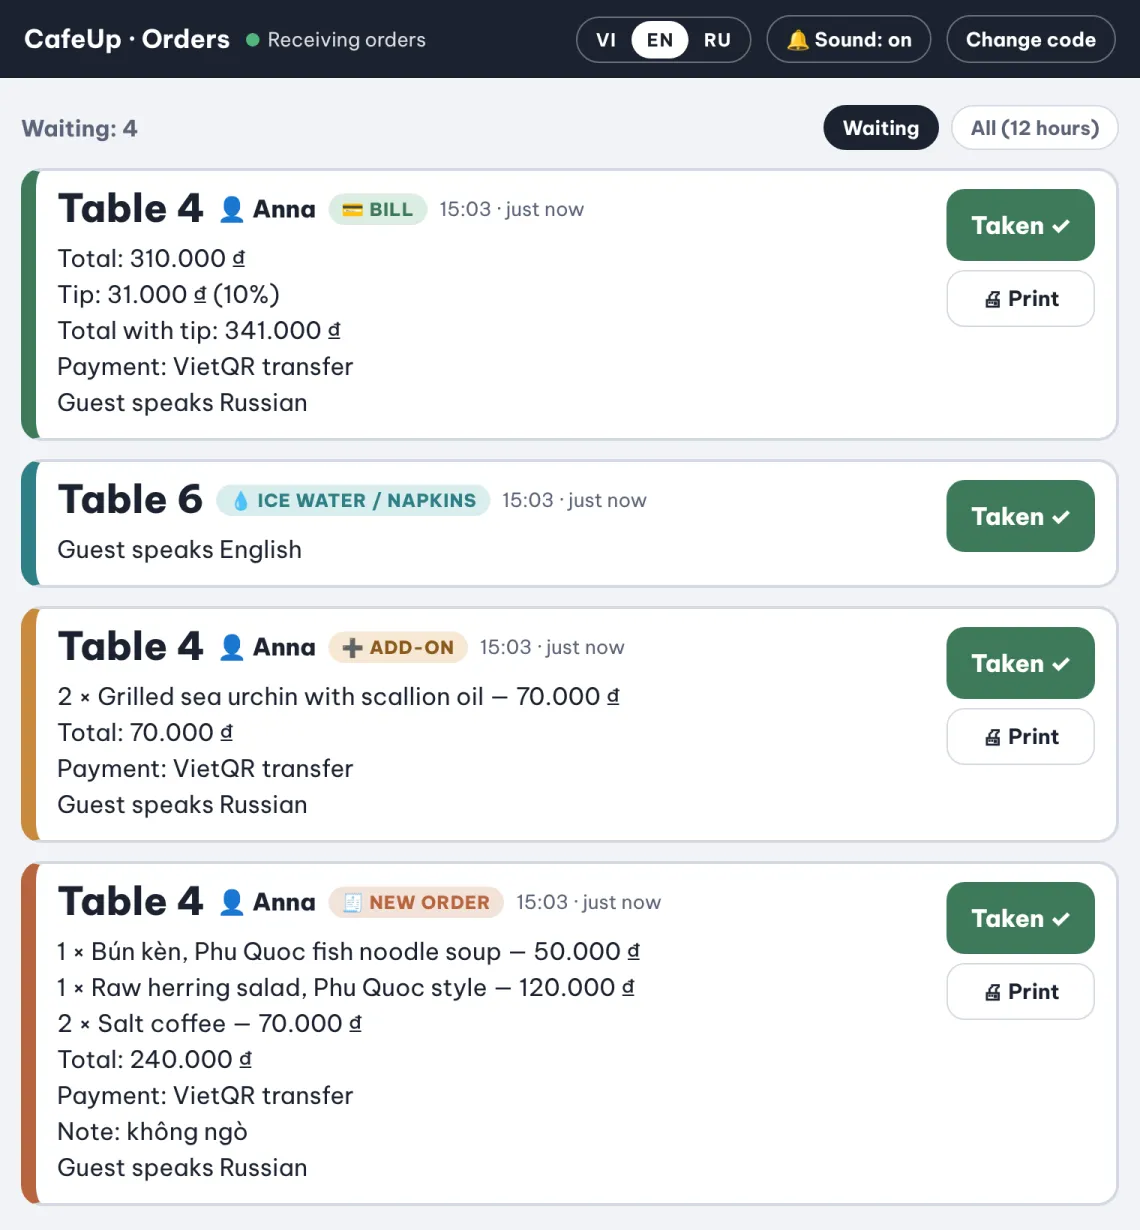
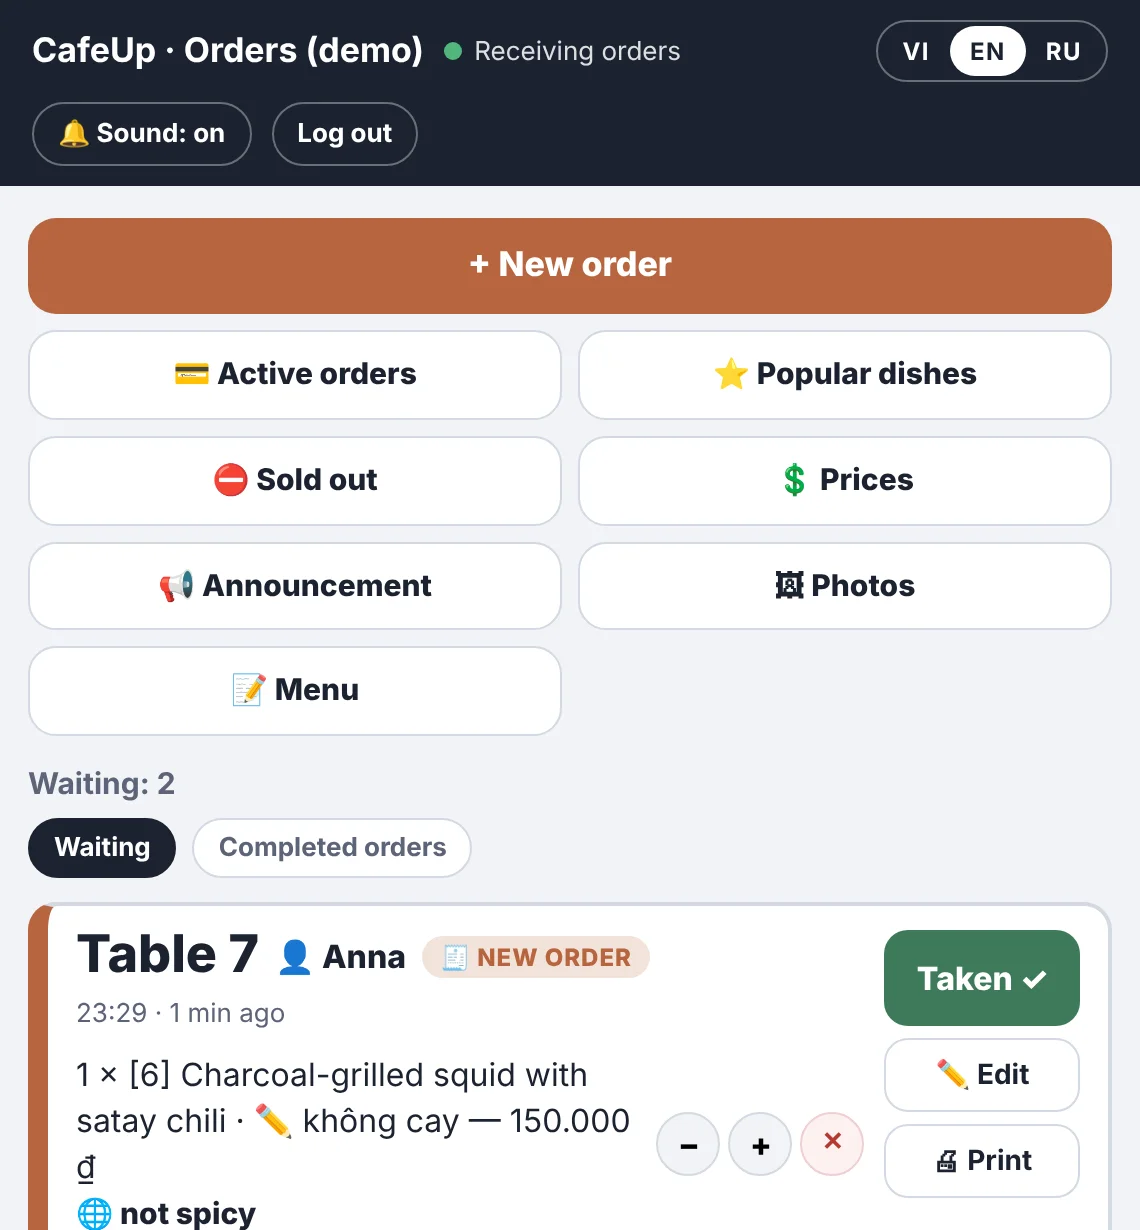
Landing: describe the new staff screen and menu features, new staff screenshots
Moment 4, the Menu + Service package, About and FAQ now list active tables,
discount / tax / card, kitchen tickets, translated comments and running the
menu from the staff screen. Staff screenshots retaken from the new demo screen.

Claude-Session: https://claude.ai/code/session_01FUVkhG2fipzc5VWhdepP5y

diff --git a/index.html b/index.html
@@ -669,7 +669,7 @@ body.view-only #menuApp .qty,body.view-only #menuApp .bar,body.view-only #menuAp
         </div>
         <p class="note now" data-pane="now" data-t="m4_now"></p>
         <div class="note with" data-pane="with" hidden><span data-t="m4_with"></span>
-          <ul class="m4list"><li data-t="m4_1"></li><li data-t="m4_2"></li><li data-t="m4_3"></li><li data-t="m4_4"></li></ul></div>
+          <ul class="m4list"><li data-t="m4_1"></li><li data-t="m4_2"></li><li data-t="m4_3"></li><li data-t="m4_4"></li><li data-t="m4_5"></li><li data-t="m4_6"></li></ul></div>
         <a class="btn primary" style="margin-top:16px" data-pane="with" hidden href="staff/" target="_blank" rel="noopener" data-t="m4_try"></a>
       </div>
       <div class="stage">
@@ -680,7 +680,7 @@ body.view-only #menuApp .qty,body.view-only #menuApp .bar,body.view-only #menuAp
           <div class="outcome"><span class="verdict now" data-t="lost"></span><div data-t="m4_result"></div></div>
         </div>
         <div class="staffshot" data-pane="with" hidden>
-          <img data-staff src="img/staff_vi.webp" alt="" width="570" height="615" loading="lazy">
+          <img data-staff src="img/staff_vi.webp?v=2" alt="" width="570" height="615" loading="lazy">
           <img class="rcpt" src="img/receipt.webp" alt="" width="301" loading="lazy">
         </div>
       </div>
@@ -733,7 +733,7 @@ body.view-only #menuApp .qty,body.view-only #menuApp .bar,body.view-only #menuAp
         <div class="pr"><b class="money" data-v="5500000" data-coffee="4500000"></b><span data-t="once"></span></div>
         <span class="time" data-t="pk_time"></span>
         <ul>
-          <li data-t="ps_0"></li><li data-t="ps_1"></li><li data-t="ps_2"></li><li data-t="ps_3"></li><li data-t="ps_4"></li><li data-t="ps_5"></li>
+          <li data-t="ps_0"></li><li data-t="ps_1"></li><li data-t="ps_2"></li><li data-t="ps_3"></li><li data-t="ps_4"></li><li data-t="ps_6"></li><li data-t="ps_5"></li>
         </ul>
       </div>
     </div>
@@ -860,11 +860,13 @@ m4_tag:["Thời điểm 4 · Nhân viên", "Moment 4 · Staff", "Момент 4 
 m4_h:["Đơn đến đúng người, đúng lúc", "Every order reaches the right person on time", "Заказ доходит до нужного человека вовремя"],
 m4_p:["Giờ cao điểm: nhân viên chạy giữa các bàn, đơn ghi tay, tin nhắn lẫn với chat riêng, hóa đơn tính bằng máy tính.", "Rush hour: staff run between tables, orders are on paper, messages get lost among private chats, the bill is added up on a calculator.", "Час пик: официанты бегают между столами, заказы на бумажке, сообщения теряются в личных чатах, счёт считают на калькуляторе."],
 m4_now:["Khách gọi hai lần mà không ai đến. Món ra nhầm bàn. Đánh giá: «phục vụ chậm».", "The guest calls twice and nobody comes. A dish goes to the wrong table. Review: “slow service”.", "Гость зовёт дважды — никто не подходит. Блюдо уносят не на тот стол. Отзыв: «медленное обслуживание»."],
-m4_with:["Màn hình đơn hàng trên máy tính bảng ở quầy:", "An order screen on a tablet at the counter:", "Экран заказов на планшете у кассы:"],
-m4_1:["Đơn mới có âm thanh, màu theo loại: món mới, gọi thêm, gọi phục vụ, nước, tính tiền", "New orders beep and are colour-coded: new order, add-on, waiter, water, bill", "Новые заказы со звуком и цветом: заказ, дозаказ, официант, вода, счёт"],
+m4_with:["Màn hình đơn hàng trên máy tính bảng hoặc điện thoại:", "An order screen on a tablet or phone:", "Экран заказов на планшете или телефоне:"],
+m4_1:["Đơn mới có âm thanh và màu theo loại; sửa đơn, thêm món hoặc tự tạo đơn cho khách gọi tại bàn", "New orders beep and are colour-coded; edit an order, add a dish or enter one taken at the table", "Новые заказы со звуком и цветом; можно изменить заказ, добавить блюдо или создать заказ, принятый у стола"],
 m4_2:["Thông báo trên điện thoại nhân viên, kể cả khi khóa màn hình", "Notifications on staff phones, even when the screen is locked", "Уведомления на телефоны официантов, даже при заблокированном экране"],
-m4_3:["Tự động in hóa đơn trên máy in 80 mm khi khách tính tiền", "Bill prints automatically on an 80 mm printer when the guest asks for it", "Счёт сам печатается на принтере 80 мм, когда гость просит счёт"],
-m4_4:["Màn hình bằng tiếng Việt, Anh hoặc Nga: chủ quán xem cùng đơn bằng ngôn ngữ của mình", "Screen in Vietnamese, English or Russian: the owner sees the same orders in their language", "Экран на вьетнамском, английском или русском: владелец видит те же заказы на своём языке"],
+m4_3:["Bàn đang mở: tổng tiền, giảm giá, thuế, thanh toán tiền mặt / VietQR / thẻ, in hóa đơn và đóng bàn", "Open tables: total, discount, tax, cash / VietQR / card, print the bill and close the table", "Открытые столы: сумма, скидка, налог, оплата наличными / VietQR / картой, печать счёта и закрытие стола"],
+m4_4:["Phiếu bếp và hóa đơn 80 mm, ghi chú của khách được dịch sang tiếng Việt", "80 mm kitchen tickets and bills, guest comments translated into Vietnamese", "Кухонный тикет и счёт на 80 мм, комментарии гостей переводятся на вьетнамский"],
+m4_5:["Tự quản lý thực đơn ngay trên màn hình: hết món, giá, món phổ biến, thông báo, ảnh, thêm món mới", "Run the menu from the screen: sold out, prices, popular dishes, announcement, photos, new dishes", "Меню прямо с экрана: стоп-лист, цены, популярное, объявление, фото, новые блюда"],
+m4_6:["Màn hình bằng tiếng Việt, Anh hoặc Nga: chủ quán xem cùng đơn bằng ngôn ngữ của mình", "Screen in Vietnamese, English or Russian: the owner sees the same orders in their language", "Экран на вьетнамском, английском или русском: владелец видит те же заказы на своём языке"],
 m4_try:["Mở màn hình nhân viên demo (mã 0000)", "Open the demo staff screen (code 0000)", "Открыть демо-экран персонала (код 0000)"],
 m4_b1:["Bàn mấy gọi vậy? Ai ghi đơn bàn 4?", "Which table called? Who took table 4's order?", "Какой стол звал? Кто принимал заказ четвёртого?"],
 m4_b2:["Excuse me! Bill please! …Hello?", "Excuse me! Bill please! …Hello?", "Excuse me! Bill please! …Hello?"],
@@ -873,10 +875,11 @@ m4_result:["Khách chờ 15 phút để trả tiền và không quay lại.", "T
 ps_tag:["Phổ biến", "Most popular", "Популярный"],
 ps_name:["Thực đơn + Phục vụ", "Menu + Service", "Меню + Обслуживание"],
 ps_0:["Tất cả trong gói chính", "Everything in the main package", "Всё из основного пакета"],
-ps_1:["Màn hình đơn hàng cho nhân viên: âm thanh, màu theo loại đơn, nút «Đã nhận»", "Order screen for staff: sound, colour by order type, a “Taken” button", "Экран заказов для персонала: звук, цвет по типу заказа, кнопка «Принято»"],
+ps_1:["Màn hình đơn hàng: âm thanh, màu theo loại đơn, sửa đơn, tự tạo đơn", "Order screen: sound, colour by order type, edit orders, enter orders by hand", "Экран заказов: звук, цвет по типу заказа, изменение и создание заказов"],
 ps_2:["Thông báo trên điện thoại nhân viên, kể cả khi khóa màn hình", "Notifications on staff phones, even when locked", "Уведомления на телефоны официантов, даже при заблокированном экране"],
-ps_3:["Tự động in hóa đơn trên máy in 80 mm của quán", "Automatic bill printing on your 80 mm printer", "Автопечать счёта на вашем принтере 80 мм"],
+ps_3:["Bàn đang mở: giảm giá, thuế, tiền mặt / VietQR / thẻ, in phiếu bếp và hóa đơn 80 mm", "Open tables: discount, tax, cash / VietQR / card, 80 mm kitchen tickets and bills", "Открытые столы: скидка, налог, наличные / VietQR / карта, кухонный тикет и счёт на 80 мм"],
 ps_4:["Màn hình bằng tiếng Việt, Anh, Nga: chủ quán xem đơn bằng ngôn ngữ của mình", "Screen in Vietnamese, English, Russian: owners read orders in their language", "Экран на вьетнамском, английском, русском: владелец читает заказы на своём языке"],
+ps_6:["Tự quản lý thực đơn trên màn hình: hết món, giá, món phổ biến, thông báo, ảnh, món mới", "Run the menu yourself: sold out, prices, popular, announcement, photos, new dishes", "Меню сами: стоп-лист, цены, популярное, объявление, фото, новые блюда"],
 ps_5:["Sách hướng dẫn có hình cho nhân viên", "Illustrated guide for staff", "Иллюстрированная инструкция для персонала"],
 sp_basic:["Cơ bản", "Basic", "Базовая"],
 sp_basic_d:["Cho gói chính", "For the main package", "К основному пакету"],
@@ -889,7 +892,7 @@ ad_13:["Cài đặt in hóa đơn tự động tại quán", "On-site setup of a
 ad_14:["Thêm ngôn ngữ: Trung, Hàn…", "Extra language: Chinese, Korean…", "Ещё язык: китайский, корейский…"],
 ad_14v:["từ 700.000 ₫", "from 700,000 ₫", "от 700 000 ₫"],
 q6:["Có in được hóa đơn không?", "Can it print bills?", "Можно печатать счета?"],
-a6:["Có, trong gói «Thực đơn + Phục vụ»: khi khách bấm «Tính tiền», hóa đơn tạm tính với đủ các món, tip và cách thanh toán tự in trên máy in 80 mm của quán (USB hoặc LAN). Hóa đơn GTGT vẫn xuất từ phần mềm thu ngân của bạn.", "Yes, with “Menu + Service”: when the guest taps “Bring the bill”, a provisional bill with all dishes, tip and payment method prints on your 80 mm printer (USB or LAN). VAT invoices still come from your POS software.", "Да, в пакете «Меню + Обслуживание»: когда гость нажимает «Принести счёт», предварительный счёт со всеми блюдами, чаевыми и способом оплаты печатается на вашем принтере 80 мм (USB или LAN). Налоговые счета по-прежнему — в вашей кассовой программе."],
+a6:["Có, trong gói «Thực đơn + Phục vụ»: phiếu bếp khi có đơn mới và hóa đơn tạm tính khi đóng bàn (món, giảm giá, thuế, tip, cách thanh toán, mã VietQR có số tiền) tự in trên máy in 80 mm của quán. Hóa đơn GTGT vẫn xuất từ phần mềm thu ngân của bạn.", "Yes, with “Menu + Service”: a kitchen ticket for each new order and a provisional bill when the table closes (dishes, discount, tax, tip, payment method, VietQR code with the amount) print on your 80 mm printer. VAT invoices still come from your POS software.", "Да, в пакете «Меню + Обслуживание»: кухонный тикет на каждый новый заказ и предварительный счёт при закрытии стола (блюда, скидка, налог, чаевые, способ оплаты, VietQR с суммой) печатаются на вашем принтере 80 мм. Налоговые счета по-прежнему — в вашей кассовой программе."],
 nav_demo:["Ví dụ","Examples","Примеры"],
 nav_calc:["Tính toán","Calculator","Калькулятор"],
 nav_price:["Bảng giá","Pricing","Цены"],
@@ -898,7 +901,7 @@ about_h:["Tôi là Jane","I'm Jane","Я — Jane"],
 about_role:["Marketing cho quán cà phê và nhà hàng ở Nha Trang và Phú Quốc","Marketer for cafés and restaurants in Nha Trang and Phu Quoc","Маркетолог для кафе и ресторанов в Нячанге и на Фукуоке"],
 about_p:["Tôi giúp quán có thêm khách: khách du lịch tìm thấy quán trên bản đồ, hiểu thực đơn, gọi món dễ dàng và để lại đánh giá tốt sau bữa ăn.","I help places get more guests: tourists find you on the map, understand your menu, order easily and leave a good review after their meal.","Помогаю заведениям получать больше гостей. Турист находит вас на карте, понимает меню, легко делает заказ, а после ужина оставляет хороший отзыв."],
 about_1:["<b>Google Maps.</b> Hoàn thiện hồ sơ quán: ảnh, mô tả, giờ mở cửa, danh mục. Đặt mã QR trên bàn để khách để lại đánh giá.","<b>Google Maps.</b> I set up your profile with photos, description, hours and categories, and put review QR codes on your tables.","<b>Google Maps.</b> Оформляю карточку: фото, описание, часы, категории. Ставлю на столы QR, по которому гости оставляют отзывы."],
-about_2:["<b>Thực đơn và gọi món.</b> Thực đơn 3 ngôn ngữ, đơn hàng về Zalo hoặc Telegram bằng tiếng Việt cho nhân viên.","<b>Menu and orders.</b> A menu in three languages, with orders reaching your staff in Vietnamese on Zalo or Telegram.","<b>Меню и заказы.</b> Меню на трёх языках, заказы приходят персоналу в Zalo или Telegram на вьетнамском."],
+about_2:["<b>Thực đơn và gọi món.</b> Thực đơn 3 ngôn ngữ, đơn hàng đến màn hình nhân viên bằng tiếng Việt, kèm thông báo và in hóa đơn.", "<b>Menu and orders.</b> A menu in three languages, with orders reaching your staff screen in Vietnamese, with phone alerts and printed bills.", "<b>Меню и заказы.</b> Меню на трёх языках, заказы приходят на экран персонала на вьетнамском, с уведомлениями и печатью счёта."],
 about_cta:["Nhắn cho Jane →","Message Jane →","Написать Jane →"],
 v_coffee:["Quán cà phê","Coffee shop","Кофейня"],
 v_cafe:["Quán ăn / nhà hàng","Café / restaurant","Кафе / ресторан"],
@@ -1266,7 +1269,7 @@ function setLang(l){
   applyVariant();
   document.querySelectorAll('img[data-cover]').forEach(i=>{i.src='img/deck_'+i.dataset.cover+'_'+(l==='ru'?'ru':'vi')+'.jpg'});
   menuLang=l==='vi'?'en':l;
-  document.querySelectorAll('img[data-staff]').forEach(i=>{i.src='img/staff_'+l+'.webp'});
+  document.querySelectorAll('img[data-staff]').forEach(i=>{i.src='img/staff_'+l+'.webp?v=2'});
   renderPaper(); renderMenu(); [1,2,3,4].forEach(applyMoment); calc();
 }
 document.querySelector('.lang').addEventListener('click',e=>{const b=e.target.closest('button[data-lang]');if(b)setLang(b.dataset.lang)});
